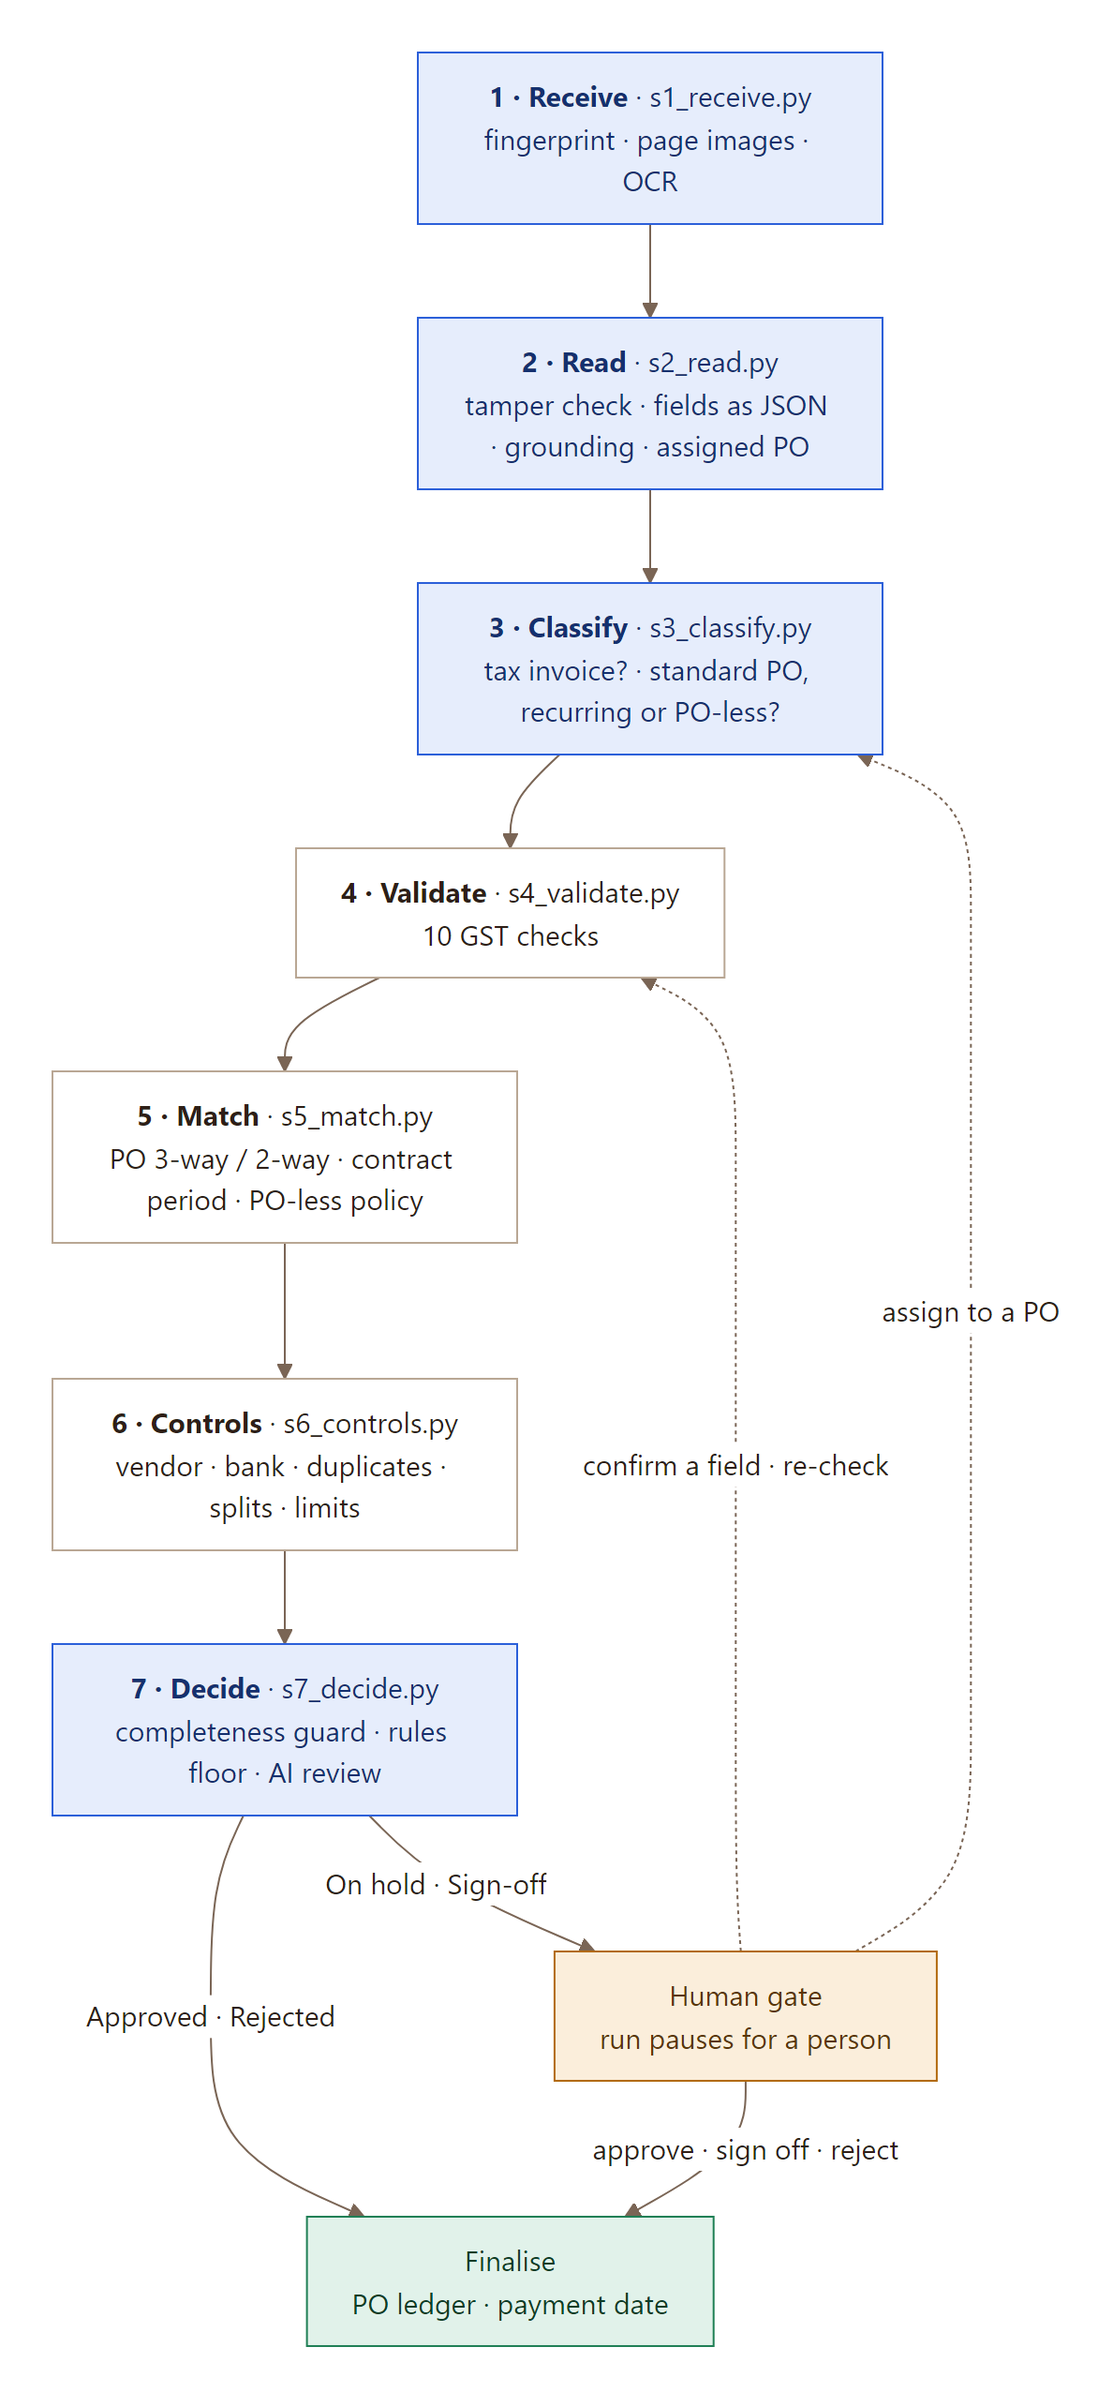
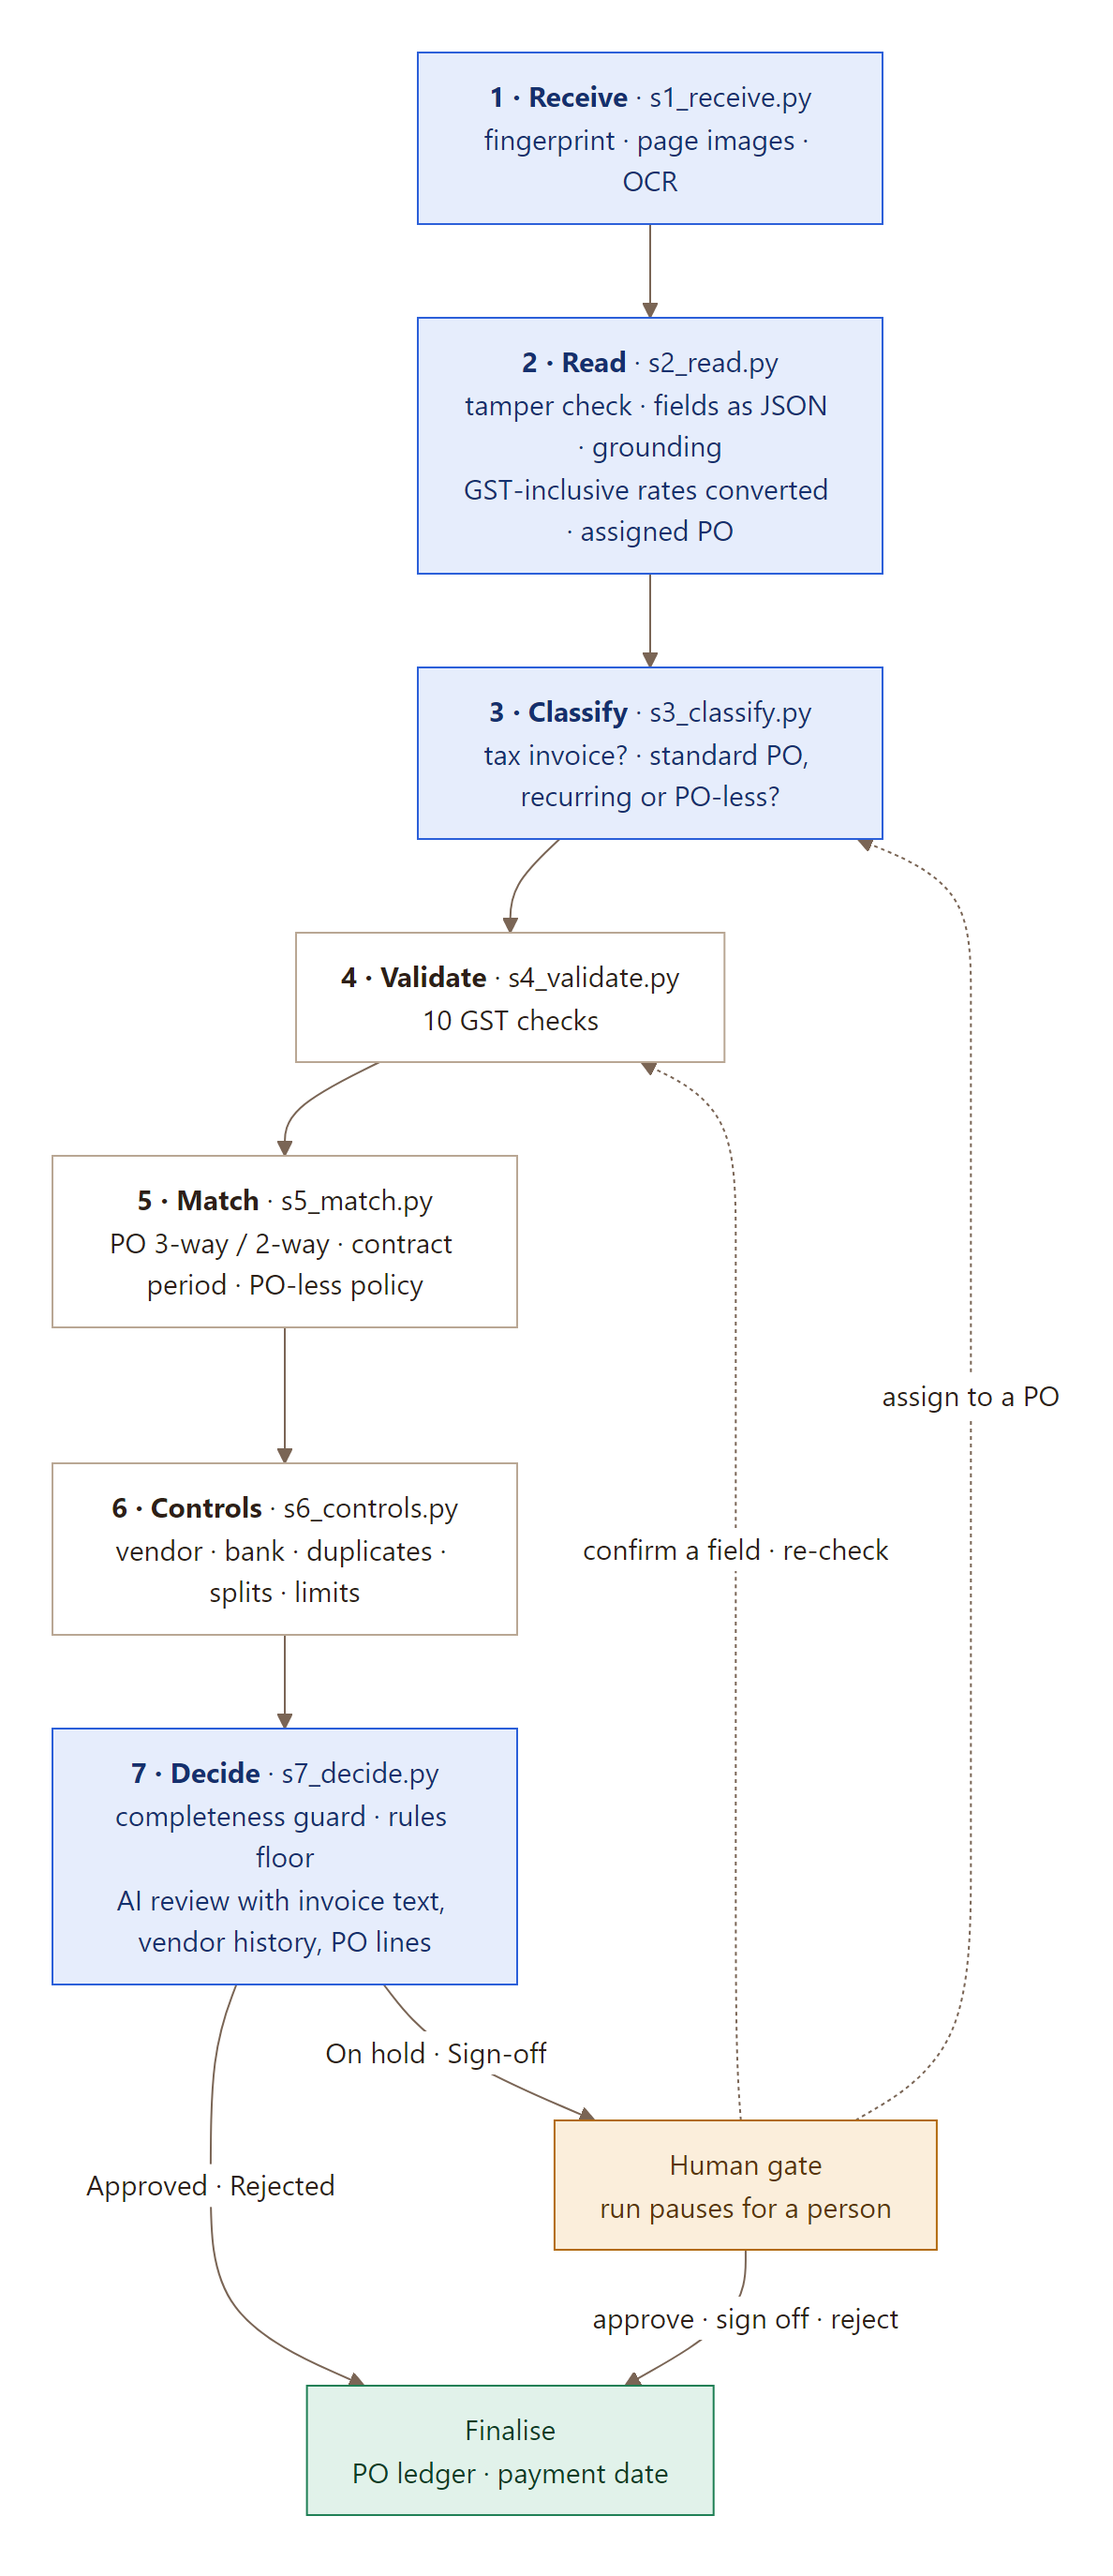
docs: diagrams and README brought up to date (edge cases page, reviewer context, GST-inclusive conversion, new files); fresh screenshots; softer box fills, borders kept

diff --git a/ui/style.py b/ui/style.py
@@ -5,7 +5,7 @@ CSS = """
 <style>
 :root {
   --paper:#fffaf4; --sheet:#fffdf9; --card:#ffffff; --ink:#2e1f17; --body:#3d2c22; --ink-2:#5a4436; --muted:#6b5444; --faint:#8a7262;
-  --rule:#d6bb9f; --rule-2:#e5cfb8; --wash:#fae6d4; --pill:#f2e0cd; --track:#efd6c2;
+  --rule:#d6bb9f; --rule-2:#e5cfb8; --wash:#fbebdc; --pill:#f4e6d7; --track:#f1dbc9;
   --accent:#b5502c; --accent-deep:#8f3c1f; --accent-line:#e7b99c;
   --ok:#2f7a4b; --ok-wash:#e4f1e5; --sign:#6a46b8; --sign-wash:#efe8f8; --hold:#9a6a00; --hold-wash:#fbefc8; --rej:#b3213f; --rej-wash:#fae0e4;
   --hero: radial-gradient(120% 140% at 0% 0%, #fbe3d0 0%, #fff5ea 45%, #fffaf4 100%);

diff --git a/README.md b/README.md
@@ -338,19 +338,19 @@ Every file one invoice passes through, in the order it runs. The example is a di
 
 | # | File | What happens |
 |---|---|---|
-| 01 | `streamlit_app.py` | Entry point. Applies the theme (`ui/style.py`, `.streamlit/config.toml`) and routes to Purchase orders (the inbox, or one trail when the link has `?trail=`), Rulebook or Company records. |
+| 01 | `streamlit_app.py` | Entry point. Drops stale UI modules after a deploy, applies the theme (`ui/style.py`, `.streamlit/config.toml`) and routes to Purchase orders (the inbox, or one trail when the link has `?trail=`), Edge cases, Rulebook or Company records. |
 | 02 | `ui/engine.py` | Starts the agent the first time anyone opens the app. It copies the NVIDIA key from Streamlit secrets, builds the FastAPI app and its pipeline, and on an empty database restores the 38-invoice history and the company records. It is cached per fingerprint of the backend code, so a hot-reloaded deploy builds the new API. |
-| 03 | `ui/home.py` → `ui/process.py` | The inbox and the process dialog. The PO is picked first, then the PDF is posted with `engine.post("/api/cases", assigned_po=…)`, and the PO's trail opens. |
+| 03 | `ui/home.py` → `ui/process.py` | The inbox and the process dialog. The PO is picked first, then the PDF is posted with `engine.post("/api/cases", assigned_po=…)`, and the PO's trail opens. The Edge cases page (`ui/edge_cases.py`) runs a demo invoice the same way. |
 | 04 | `api/routes/cases.py` | Rejects anything that isn't a PDF, gives the case an ID, sets the pace (normal: none; demo mode: 450 ms per check), and hands the run to a worker thread. |
 | 05 | `pipeline/graph.py` | `prepare` copies the PDF into `storage/files/<case>/`, renders the page image straight away and creates the case row. `run` then executes the 17-step graph, checkpointing after each step. |
 | 06 | `pipeline/steps/_shared.py` | Wraps every step. It publishes "started" and "finished" events, saves each finding, and fails closed: if a step crashes or every model is down, the case is held. |
 | 07 | `steps/s1_receive.py` | Fingerprints the file (seen before?), checks it opens and isn't password-protected, and renders each page. It pulls the PDF's own embedded text and sends the page image to Nemotron Parse for OCR: text blocks with their positions. |
-| 08 | `steps/s2_read.py` | Compares the hidden text with the page (tampering) and looks for text aimed at the AI. It then has the model read every field and line as JSON. **Grounding** keeps only values found on the page; those become the boxes on the invoice image. If the reader dropped the total or tax, it is recovered from the PDF's own text, but only when it adds up and matches the amount in words. Last, the PO the invoice was uploaded to is applied. |
+| 08 | `steps/s2_read.py` | Compares the hidden text with the page (tampering) and looks for text aimed at the AI. It then has the model read every field and line as JSON. **Grounding** keeps only values found on the page; those become the boxes on the invoice image. If the reader dropped the total or tax, it is recovered from the PDF's own text, but only when it adds up and matches the amount in words. Rates printed with GST included are converted to before-GST rates, only when the invoice's own figures prove it (`rules/tax_inclusive.py`). Last, the PO the invoice was uploaded to is applied. |
 | 09 | `steps/s3_classify.py` | Is it a payable tax invoice, or a proforma, quotation or statement? Which path: standard PO, recurring or PO-less? When no PO is printed, the AI ranks the vendor's open POs. |
 | 10 | `steps/s4_validate.py` | 10 GST checks: billed to Sample Client's GSTIN, mandatory fields, GSTIN check digit, active registration, IGST versus CGST+SGST, IRN, arithmetic, amount in words, dates. |
 | 11 | `steps/s5_match.py` | Standard PO: pairs invoice lines with PO lines, then checks price, quantity ordered, quantity received, GST rate and PO balance. Recurring: contract, period, period not already billed. PO-less: allowed category, service account, GL code. |
 | 12 | `steps/s6_controls.py` | 8 controls: vendor approved, look-alike names, bank account changed, exact and probable duplicates, unusual amounts, splits under a limit, approval authority. |
-| 13 | `steps/s7_decide.py` | The guard confirms every check for this path ran. The strictest rule outcome sets the floor. The AI reviews the case and may only make an otherwise-approved invoice stricter. The wording comes from the rulebook. Holds and sign-offs pause at the human gate; approvals are written to the PO ledger. |
+| 13 | `steps/s7_decide.py` | The guard confirms every check for this path ran. The strictest rule outcome sets the floor. The reviewing agent (`decision/review.py`) gets every finding plus the invoice text, the vendor's history and the PO lines, and may only make an otherwise-approved invoice stricter, citing its evidence. The wording comes from the rulebook. Holds and sign-offs pause at the human gate; approvals are written to the PO ledger. |
 | 14 | `ui/trail_page.py` · `api/trails.py` | The PO's story in date order. Clicking a step opens its document: PO and receipt images from `documents/build.py`, or the invoice. |
 | 15 | `ui/invoice_view.py` · `api/trail.py` | One invoice: stage tiles while running, then the decision card, the ordered/received/billed table and every check by stage. `page_with_boxes` draws the evidence boxes. |
 | 16 | `ui/invoice_view.py` → `cases.py` → `graph.py` | A person acts with a note. The paused run resumes from its checkpoint: approving goes to `finalise`; confirming a field or re-checking goes back to validation; assigning a PO goes back to classification. |
@@ -677,7 +677,7 @@ rulebook/                 the agent's operating procedure (editable, versioned)
 data/
   erp/                    the company's original records (vendors, POs, receipts, contracts, GL, service accounts)
   seed/                   38 processed history invoices, their files and recorded replies, restored on reset
-samples/                  demo invoice specs, PDF generator, generated PDFs, recorded model replies
+samples/                  demo invoice specs, PDF generator, generated PDFs, recorded model replies; edge_cases.py (the edge cases shown in the README and the app)
 backend/
   src/ap_agent/
     core/                 settings, money, domain models, client name
@@ -687,9 +687,9 @@ backend/
     ai/                   model gateway (retries, backups, recorded replies), agent tool loop, tools
     reading/              1 · PDF → page images → parsed blocks → extracted, grounded invoice → recovered totals
     classify/             2 · document type and transaction type
-    rules/                pure rule functions: normalisation, india/ rule pack, po_assignment
+    rules/                pure rule functions: normalisation, india/ rule pack, po_assignment, tax_inclusive (GST-inclusive rates)
     checks/               3–5 · one file per stage: intake, validation, standard_po, recurring, po_less, controls
-    decision/             6 · rules floor, agent review guard, verdict
+    decision/             6 · rules floor, agent review guard, verdict; review.py (the reviewing agent's prompt and input)
     pipeline/             LangGraph wiring (graph.py), events, and the steps in run order:
       nodes.py            index of the 17 steps
       steps/s1_receive.py … s7_decide.py
@@ -701,15 +701,17 @@ ui/
   engine.py               the agent in-process (FastAPI TestClient), cached per version of the backend code
   home.py                 the inbox
   trail_page.py           one PO: timeline + document viewer
+  edge_cases.py           the Edge cases page: each edge case, runnable
   process.py              process an invoice (PO first) · raise a PO
   invoice_view.py         one invoice: stage tiles, decision card, actions, page with evidence boxes
   records.py              company records and vendor controls
   pages.py                the rulebook page
   parts.py · common.py · style.py   HTML pieces, helpers, theme
-scripts/                  data-building scripts, numbered by run order in scripts/README.md
+scripts/                  data-building scripts, numbered by run order in scripts/README.md; render_diagrams.py (README diagrams)
 docs/diagrams/            diagram sources (.mmd, Mermaid) and the images rendered from them
 docs/images/              screenshots used in this README
 .github/workflows/        keep-alive: opens the app every 30 minutes
+pytest.ini                test settings for a run from the repository root (the live model tests stay off)
 storage/                  runtime data, not committed (runs.db, checkpoints.db, files/, erp/ working copy)
 ```
 
